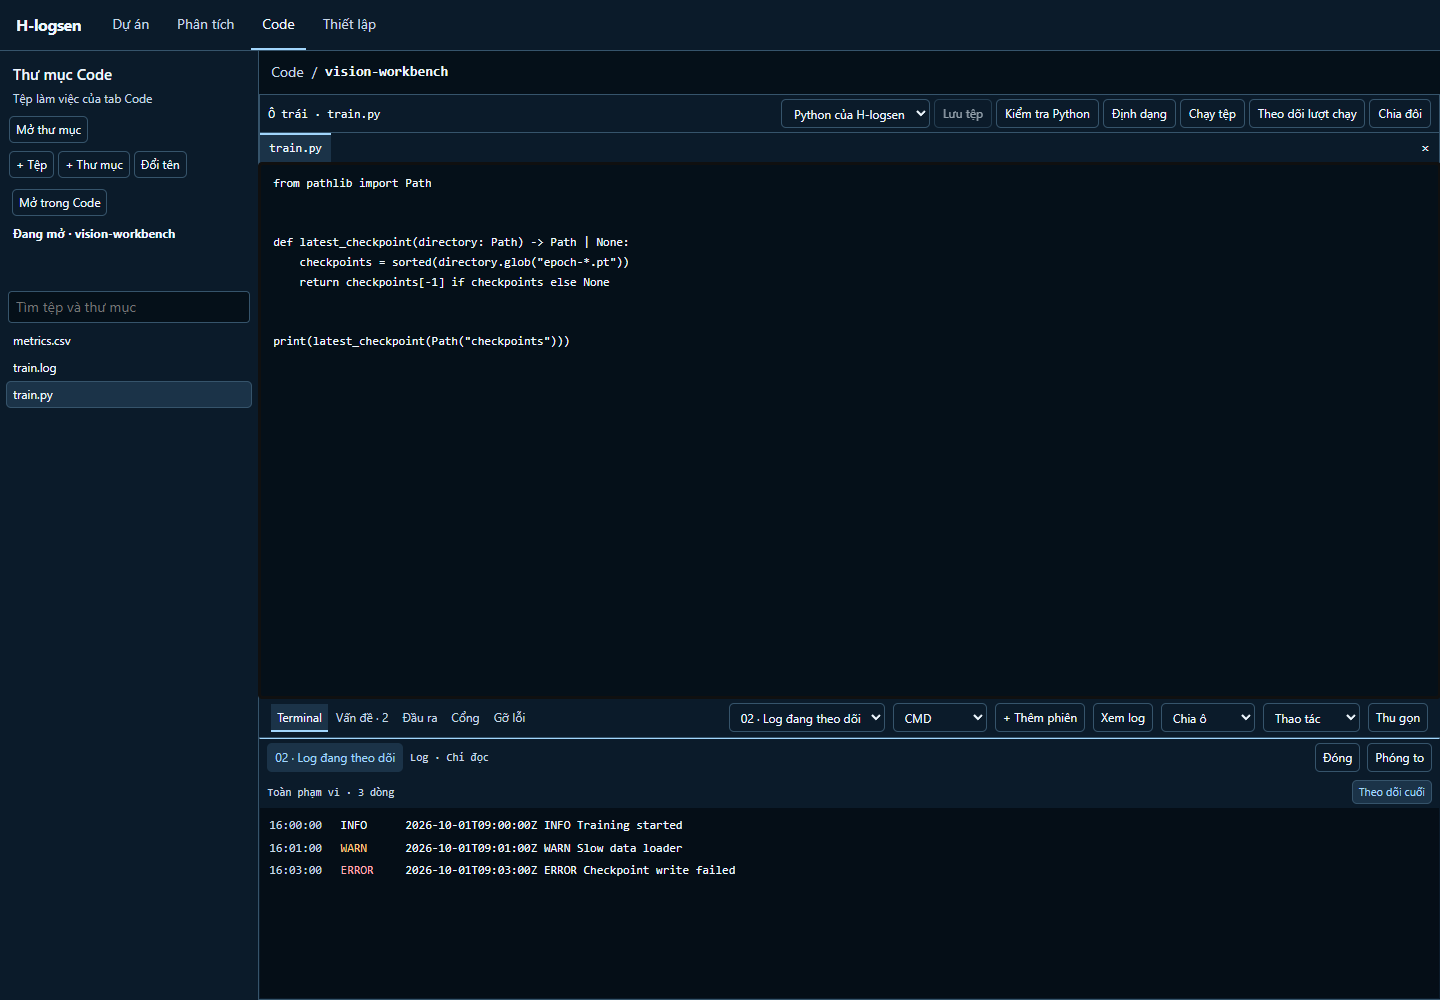
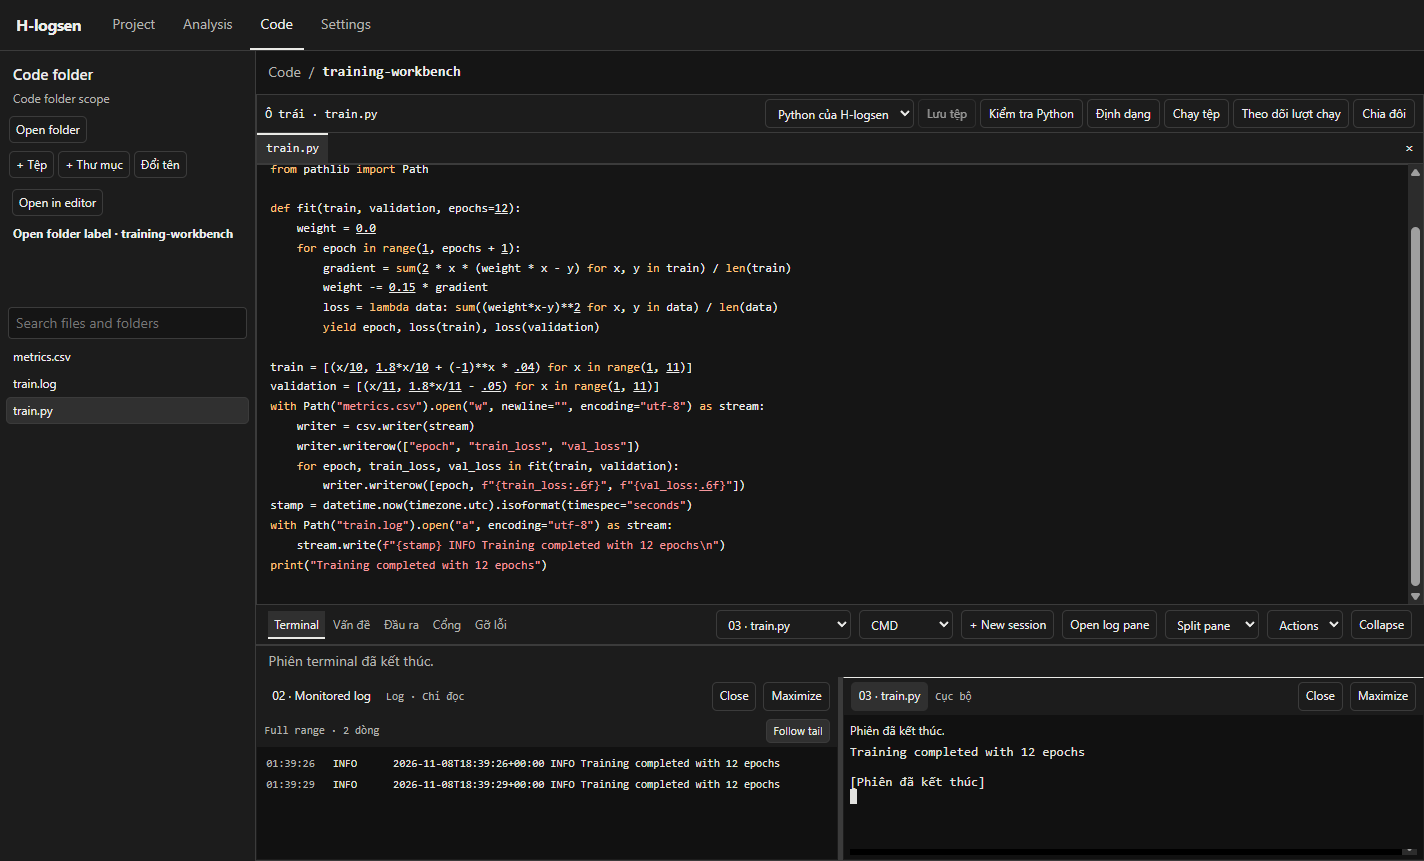
docs: showcase the installed H-logsen desktop app

Changed region(s): [[0.1854, 0.0906, 1.0, 1.0], [0.0, 0.0, 0.5253, 0.6643], [0.1854, 0.2416, 0.5562, 0.3926]]

diff --git a/README.md b/README.md
@@ -1,63 +1,87 @@
 <div align="center">
-  <img src="docs/showcase/h-logsen.png" alt="H-logsen pixel H icon" width="72" height="72">
+  <img src="docs/showcase/h-logsen.png" alt="H-logsen pixel H icon" width="80" height="80">
   <h1>H-logsen</h1>
-  <p><strong>A desktop workbench for logs, training runs, and local projects.</strong></p>
-  <p><a href="https://github.com/HieuHoai2704/H-LogSense/raw/refs/heads/download-v0.4.8/downloads/v0.4.8/H-logsen-0.4.8-Windows.zip"><strong>Download for Windows</strong></a> · <a href="https://github.com/HieuHoai2704/H-LogSense/raw/refs/heads/download-v0.4.8/downloads/v0.4.8/H-logsen-0.4.8-macOS.zip"><strong>Download for macOS</strong></a> · <a href="https://github.com/HieuHoai2704/H-LogSense/blob/download-v0.4.8/downloads/v0.4.8/SHA256.txt">SHA-256</a></p>
+  <p><strong>A desktop workbench for investigating logs and machine learning runs.</strong></p>
+  <p><a href="https://github.com/HieuHoai2704/H-LogSense/raw/refs/heads/download-v0.4.8/downloads/v0.4.8/H-logsen-0.4.8-Windows.zip"><strong>Download for Windows</strong></a> · <a href="https://github.com/HieuHoai2704/H-LogSense/raw/refs/heads/download-v0.4.8/downloads/v0.4.8/H-logsen-0.4.8-macOS.zip"><strong>Download for macOS</strong></a> · <a href="https://github.com/HieuHoai2704/H-LogSense/blob/download-v0.4.8/downloads/v0.4.8/SHA256.txt">SHA-256 checksums</a></p>
   <p>Desktop preview · v0.4.8</p>
 </div>
 
-![H-logsen Project workspace showing warning and error activity, training loss, and raw logs](docs/showcase/workspace.png)
+H-logsen brings project files, raw logs, training metrics, and a local shell into one desktop workspace. Use it to inspect a run while it writes logs, compare runs, and read the source or supporting documents alongside the terminal.
 
-<sub>H-logsen on Windows with sample training metrics and logs. The local folder path is hidden in this capture.</sub>
+## Desktop walkthrough
 
-## One workspace for the investigation
+These four screenshots were captured from the installed Windows desktop app using WebView2. A separate example project ran a Python training loop for 12 epochs and wrote the log and metrics shown here. The app language was set to English. Some controls in v0.4.8 still display Vietnamese labels. Local folder paths were hidden for the captures.
 
-| Workspace | What you can do |
-| --- | --- |
-| **Project** | Open a local folder, follow a log, and inspect training metrics and machine activity. Select a time bin to see the underlying log lines. |
-| **Analysis** | Profile external CSV, JSONL, and Parquet files. MySQL-backed log investigation requires a configured database. |
-| **Code** | Edit files, open a PDF alongside code, and run saved Python or JavaScript files in the terminal. Python checks and formatting use tools installed in the project. |
-| **Settings** | Choose an appearance and language, configure the Python environment, and manage local capabilities. |
+### Project
 
-<details>
-<summary><strong>See the Code workspace</strong></summary>
+Open a project folder and select a log in the file tree. H-logsen tails the file and updates the activity view as lines arrive. Select an interval to inspect the matching lines in the read-only log panel. Use the adjacent chart to review loss by epoch or switch to machine load. Run history and comparison are available when the project has recorded runs.
 
-![H-logsen Code workspace with a Python file and the terminal dock](docs/showcase/code.png)
+![Windows Project workspace with train.log, log activity, a loss chart and the log panel](docs/showcase/workspace.png)
 
-</details>
+### Analysis
 
-## Get started
+Open an external dataset and inspect its schema, preview rows, and available summary statistics. Local profiling supports CSV, JSONL, and Parquet. The separate MySQL-backed investigation workflow requires a configured database and covers dataset ingestion, anomaly timelines, supporting evidence, and filtered CSV export.
 
-Use 64-bit Python 3.10–3.13. Python 3.12 is recommended. The installer creates a local virtual environment and downloads dependencies on first run.
+![Windows Analysis workspace profiling the CSV produced by the training run](docs/showcase/analysis.png)
 
-**Windows x64**
+### Code
 
-1. Extract the Windows ZIP.
-2. Run `Install-H-logsen.cmd`, then `Open-H-logsen.cmd`.
-3. Open a project folder and choose a log in the file tree.
+Open a source file or PDF from the tree. Split the editor to view two files together, save with **Ctrl+S** or **⌘S**, and run a saved Python or JavaScript file with the corresponding runtime. Python diagnostics and formatting use tools installed in the selected project environment. The terminal uses the local operating system shell.
 
-**macOS 14 or later**
+![Windows Code workspace showing a Python training script and its completed terminal output](docs/showcase/code.png)
 
-Extract the macOS ZIP, open Terminal in the extracted directory, and run:
+### Settings
+
+Manage appearance, language, Python environments, and local capabilities here. To change the interface language, open **Settings → Language** and select a language from the list.
+
+![Windows Settings workspace with English selected](docs/showcase/settings.png)
+
+## Install the desktop preview
+
+Download the ZIP for your operating system and extract it before running the installer. Use 64-bit Python 3.10–3.13. Python 3.12 is recommended. The installer creates a virtual environment inside the extracted directory and downloads Python dependencies.
+
+| Platform | What you need | Verification for v0.4.8 |
+| --- | --- | --- |
+| Windows x64 | Python and Microsoft Edge WebView2 Runtime | Desktop startup verified. Previous Windows validation recorded 24 browser tests and 34 Python tests. The screenshots above were captured from the installed package. |
+| macOS 14+ | Python, preferably from python.org | ZIP built and SHA-256 checked. Clean native installation remains to be verified. |
+| Linux | Python for the source workflow | A desktop ZIP and clean native validation are pending. |
+
+### Windows
+
+Open Command Prompt in the extracted ZIP folder and run the two commands below. You can also double-click the scripts in File Explorer. The installer and launcher are in the same folder as the bundled wheel.
+
+```bat
+Install-H-logsen.cmd
+Open-H-logsen.cmd
+```
+
+### macOS
+
+Open Terminal in the extracted ZIP folder and run the installer, then the launcher.
 
 ```sh
 sh Install-H-logsen.sh
 sh Open-H-logsen.sh
 ```
 
-| Platform | Verification for v0.4.8 |
-| --- | --- |
-| **Windows** | Desktop startup verified. The workbench passed 24 browser tests and 34 Python tests on Windows. |
-| **macOS** | ZIP built and checksum verified. Native installation and desktop operation await verification. |
+Use the published [SHA-256 list](https://github.com/HieuHoai2704/H-LogSense/blob/download-v0.4.8/downloads/v0.4.8/SHA256.txt) to compare the downloaded ZIP. Run `Get-FileHash -Algorithm SHA256 .\H-logsen-0.4.8-Windows.zip` in PowerShell or `shasum -a 256 H-logsen-0.4.8-macOS.zip` on macOS.
 
-## Architecture
+## First project
 
-H-logsen uses a local Flask service, Jinja templates and JavaScript. The desktop window uses WebView2 on Windows and WKWebView on macOS. Terminal sessions use the operating system shell. Opening files, editing code and profiling local data work without MySQL.
+1. Open **Project → Open folder** and choose the local project you want to inspect.
+2. Select `train.log` in the tree to view its recent lines and log activity. For loss curves, place `metrics.csv` in the project with columns `epoch`, `train_loss`, and `val_loss`.
+3. Select a log interval to inspect its lines. Switch to **Analysis** for file profiling or **Code** for editing and running a script.
 
-## Source and contributions
+## Architecture and scope
 
-The default branch currently contains the original LogSense AI investigation baseline. The desktop packages above are a later preview. See the [original baseline README](https://github.com/HieuHoai2704/H-LogSense/blob/675c718cdc0503fbcb9daf10fa7c76b3ffcf34dc/README.md) for setup and design notes for the source currently tracked here.
+The desktop preview renders the Flask, Jinja, and JavaScript interface in an operating system web view. It uses WebView2 on Windows and WKWebView on macOS. The local Flask service listens on loopback. File access and terminal commands run under the signed-in OS account. Local file viewing, editing, terminal sessions, and profiling work without MySQL.
 
-Use [Issues](https://github.com/HieuHoai2704/H-LogSense/issues) to report a problem. Include the app version, operating system and steps to reproduce with sample data.
+The MySQL-backed investigation pipeline is a separate workflow for imported log data. See the [original LogSense AI baseline](https://github.com/HieuHoai2704/H-LogSense/blob/675c718cdc0503fbcb9daf10fa7c76b3ffcf34dc/README.md) for its source setup and documentation.
 
-A project-wide open-source license has yet to be selected. The desktop packages include third-party notices.
+## Source, downloads, and feedback
+
+The `main` branch tracks the original LogSense AI investigation source and this showcase. The `download-v0.4.8` branch hosts the packaged desktop preview. Use the installer from the ZIP for the version shown above.
+
+When filing an [issue](https://github.com/HieuHoai2704/H-LogSense/issues), include the app version, operating system, the workspace and action involved, and the smallest sample needed to reproduce the problem. Use sample logs or redact sensitive values before sharing.
+
+A project-wide open-source license is pending. Desktop packages include third-party notices.
